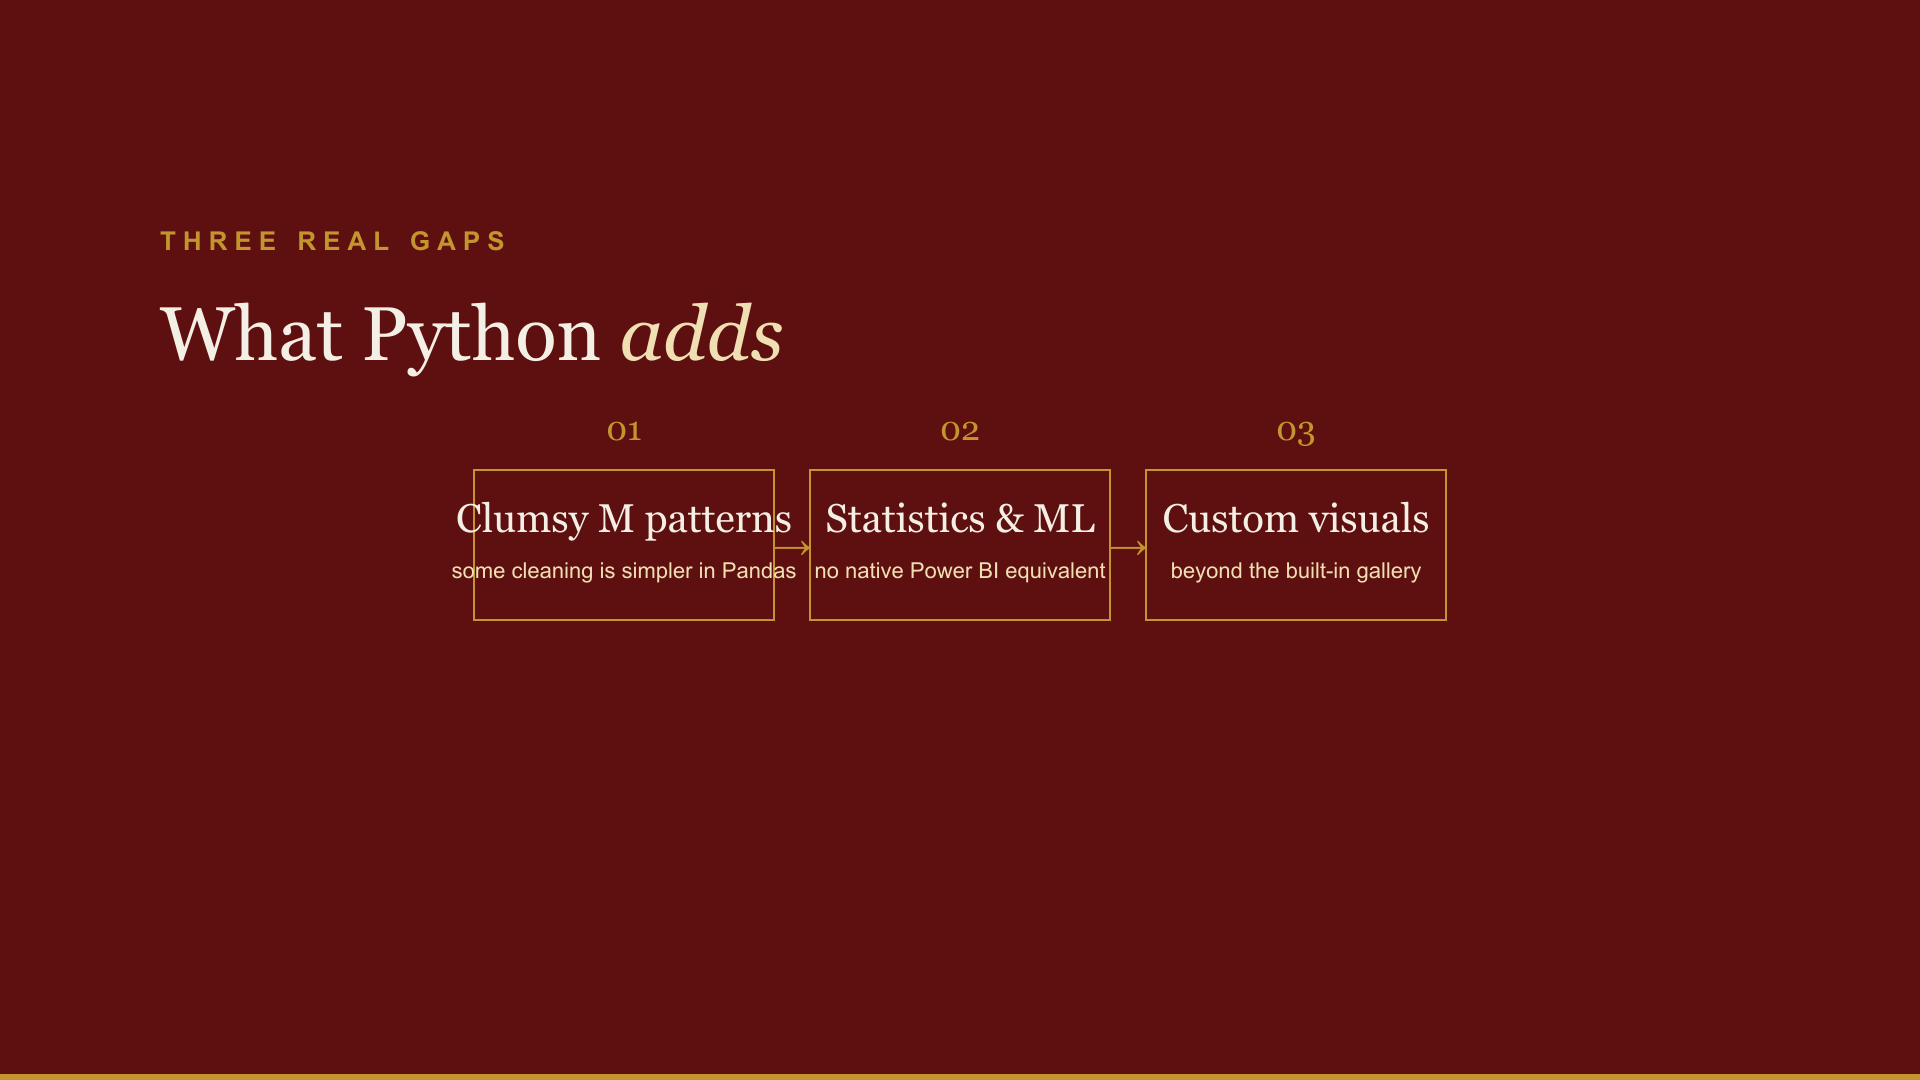
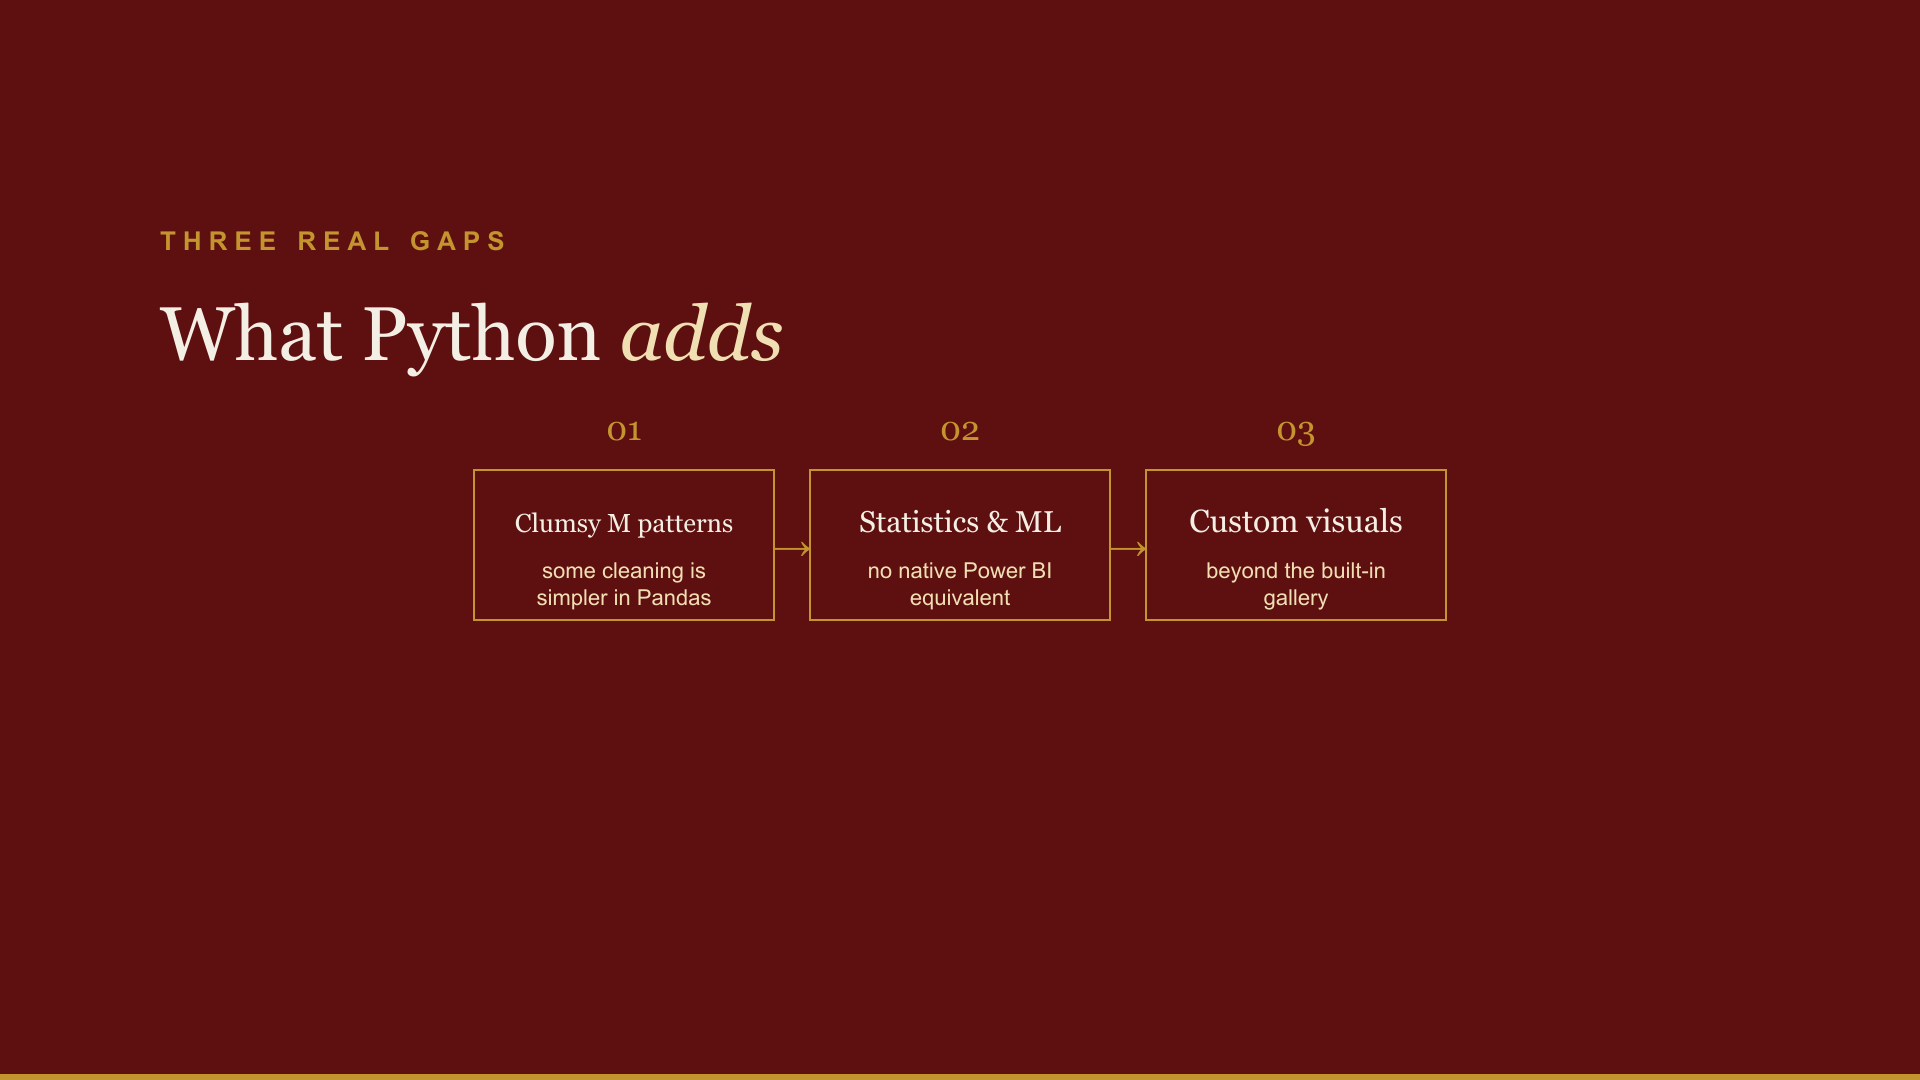
Fix jumbled/overlapping text in steps-card slides
The steps-card slide type (used for side-by-side comparisons like
"OLTP vs OLAP") rendered each box's sub-label on a single line at a
fixed width, so longer sub-labels overflowed past the box edge and
overlapped the neighboring box. Fixed gen-slides.js to wrap long
sub-labels across multiple lines within their own box, growing box
height as needed.

Regenerated slides, rebuilt videos (cached narration audio reused, no
new TTS cost), and re-uploaded the 3 affected Python for Power BI
lessons that had this issue.

Changed region(s): [[0.25, 0.4583, 0.5625, 0.5806], [0.5938, 0.5194, 0.75, 0.5806], [0.5938, 0.4583, 0.75, 0.4889]]

diff --git a/scripts/course-build/gen-slides.js b/scripts/course-build/gen-slides.js
@@ -92,6 +92,37 @@ function fitLabelSize(text, maxWidth, startSize, minSize) {
   return size;
 }
 
+// Break `text` into lines that each fit within maxWidth at the given
+// font size, shrinking the font (down to minSize) first if even a single
+// word can't fit — this is what stepsCard() uses for the "sub" line so a
+// long sub-label wraps inside its own box instead of overflowing into the
+// neighboring step's box (the original single-line, fixed-size render did
+// exactly that whenever a sub was longer than a couple of words).
+function wrapToFit(text, maxWidth, startSize, minSize, avgCharWidth = 0.55) {
+  const words = String(text || "").split(/\s+/).filter(Boolean);
+  if (words.length === 0) return { size: startSize, lines: [] };
+
+  let size = startSize;
+  const longest = Math.max(...words.map((w) => w.length));
+  while (size > minSize && longest * size * avgCharWidth > maxWidth) {
+    size -= 2;
+  }
+
+  const lines = [];
+  let cur = "";
+  for (const w of words) {
+    const trial = cur ? `${cur} ${w}` : w;
+    if (!cur || trial.length * size * avgCharWidth <= maxWidth) {
+      cur = trial;
+    } else {
+      lines.push(cur);
+      cur = w;
+    }
+  }
+  if (cur) lines.push(cur);
+  return { size, lines };
+}
+
 function stepsCard(spec) {
   const steps = spec.steps || [];
   const n = steps.length;
@@ -100,16 +131,28 @@ function stepsCard(spec) {
   if (bw * n + gap * (n - 1) > W - 160) {
     bw = Math.floor((W - 160 - gap * (n - 1)) / n);
   }
+
+  const subMaxWidth = bw - 32;
+  const wrapped = steps.map((s) => wrapToFit(s.sub, subMaxWidth, 22, 15));
+  const subLineH = 27;
+  const maxSubLines = Math.max(1, ...wrapped.map((w) => w.lines.length));
+  const boxH = Math.max(150, 92 + maxSubLines * subLineH);
+
   const x0 = (W - (bw * n + gap * (n - 1))) / 2, y0 = 470;
   let nodes = "";
   steps.forEach((s, i) => {
     const x = x0 + i * (bw + gap);
     const labelSize = fitLabelSize(String(s.label), bw - 32, 40, 18);
-    nodes += `<rect x="${x}" y="${y0}" width="${bw}" height="150" fill="none" stroke="${C.gold}" stroke-width="2"/>
+    const { size: subSize, lines: subLines } = wrapped[i];
+    const subStartY = y0 + 108;
+    const subTspans = subLines
+      .map((line, li) => `<tspan x="${x + bw / 2}" dy="${li === 0 ? 0 : subLineH}">${esc(line)}</tspan>`)
+      .join("");
+    nodes += `<rect x="${x}" y="${y0}" width="${bw}" height="${boxH}" fill="none" stroke="${C.gold}" stroke-width="2"/>
     <text x="${x + bw / 2}" y="${y0 + 62}" text-anchor="middle" font-family="${SERIF}" font-size="${labelSize}" fill="${C.parchment}">${esc(s.label)}</text>
-    <text x="${x + bw / 2}" y="${y0 + 108}" text-anchor="middle" font-family="${SANS}" font-size="22" fill="${C.goldPale}">${esc(s.sub || "")}</text>
+    <text x="${x + bw / 2}" y="${subStartY}" text-anchor="middle" font-family="${SANS}" font-size="${subSize}" fill="${C.goldPale}">${subTspans}</text>
     <text x="${x + bw / 2}" y="${y0 - 30}" text-anchor="middle" font-family="${SERIF}" font-size="34" fill="${C.gold}">0${i + 1}</text>`;
-    if (i < n - 1) nodes += `<text x="${x + bw + gap / 2}" y="${y0 + 88}" text-anchor="middle" font-family="${SANS}" font-size="40" fill="${C.gold}">→</text>`;
+    if (i < n - 1) nodes += `<text x="${x + bw + gap / 2}" y="${y0 + boxH / 2 + 14}" text-anchor="middle" font-family="${SANS}" font-size="40" fill="${C.gold}">→</text>`;
   });
   return `<svg xmlns="http://www.w3.org/2000/svg" width="${W}" height="${H}">
   <rect width="${W}" height="${H}" fill="${C.deep}"/>

diff --git a/lib/python-outline.ts b/lib/python-outline.ts
@@ -19,7 +19,7 @@ export const PYTHON_CHAPTERS: ChapterMeta[] = [
       L(1, "what-is-python", "What Is Python & Why Use It in Power BI?", {
         contentDir: "ch01/01-what-is-python",
         videoUrl:
-          "https://res.cloudinary.com/gmgfbpxh/video/upload/v1788813628/ltv-python/ch01-01-what-is-python.mp4",
+          "https://res.cloudinary.com/gmgfbpxh/video/upload/v1788952943/ltv-python/ch01-01-what-is-python.mp4",
         durationLabel: "2 min 10 s",
       }),
       L(2, "installing-python", "Installing Python for Power BI", {
@@ -61,7 +61,7 @@ export const PYTHON_CHAPTERS: ChapterMeta[] = [
       L(6, "intro-to-pandas", "Introduction to Pandas", {
         contentDir: "ch03/06-intro-to-pandas",
         videoUrl:
-          "https://res.cloudinary.com/gmgfbpxh/video/upload/v1788815653/ltv-python/ch03-06-intro-to-pandas.mp4",
+          "https://res.cloudinary.com/gmgfbpxh/video/upload/v1788953060/ltv-python/ch03-06-intro-to-pandas.mp4",
         durationLabel: "2 min 10 s",
       }),
       L(7, "dataframes", "Understanding DataFrames", {
@@ -163,7 +163,7 @@ export const PYTHON_CHAPTERS: ChapterMeta[] = [
       L(20, "python-vs-power-query-vs-dax", "Python vs. Power Query vs. DAX", {
         contentDir: "ch06/20-python-vs-power-query-vs-dax",
         videoUrl:
-          "https://res.cloudinary.com/gmgfbpxh/video/upload/v1788818560/ltv-python/ch06-20-python-vs-power-query-vs-dax.mp4",
+          "https://res.cloudinary.com/gmgfbpxh/video/upload/v1788953193/ltv-python/ch06-20-python-vs-power-query-vs-dax.mp4",
         durationLabel: "2 min 44 s",
       }),
     ],
